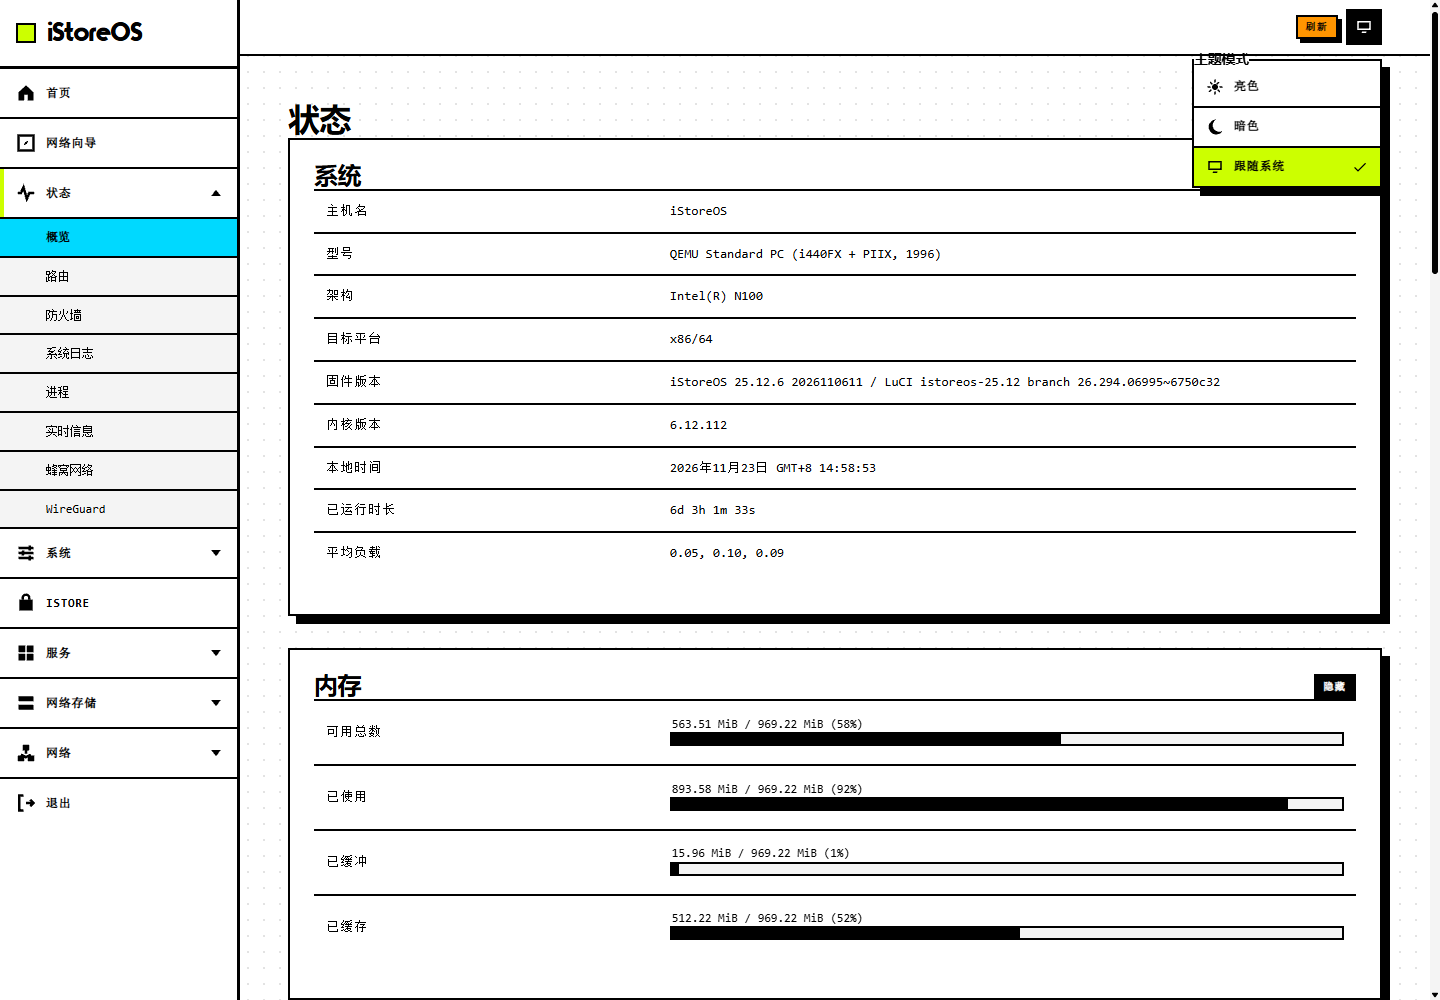
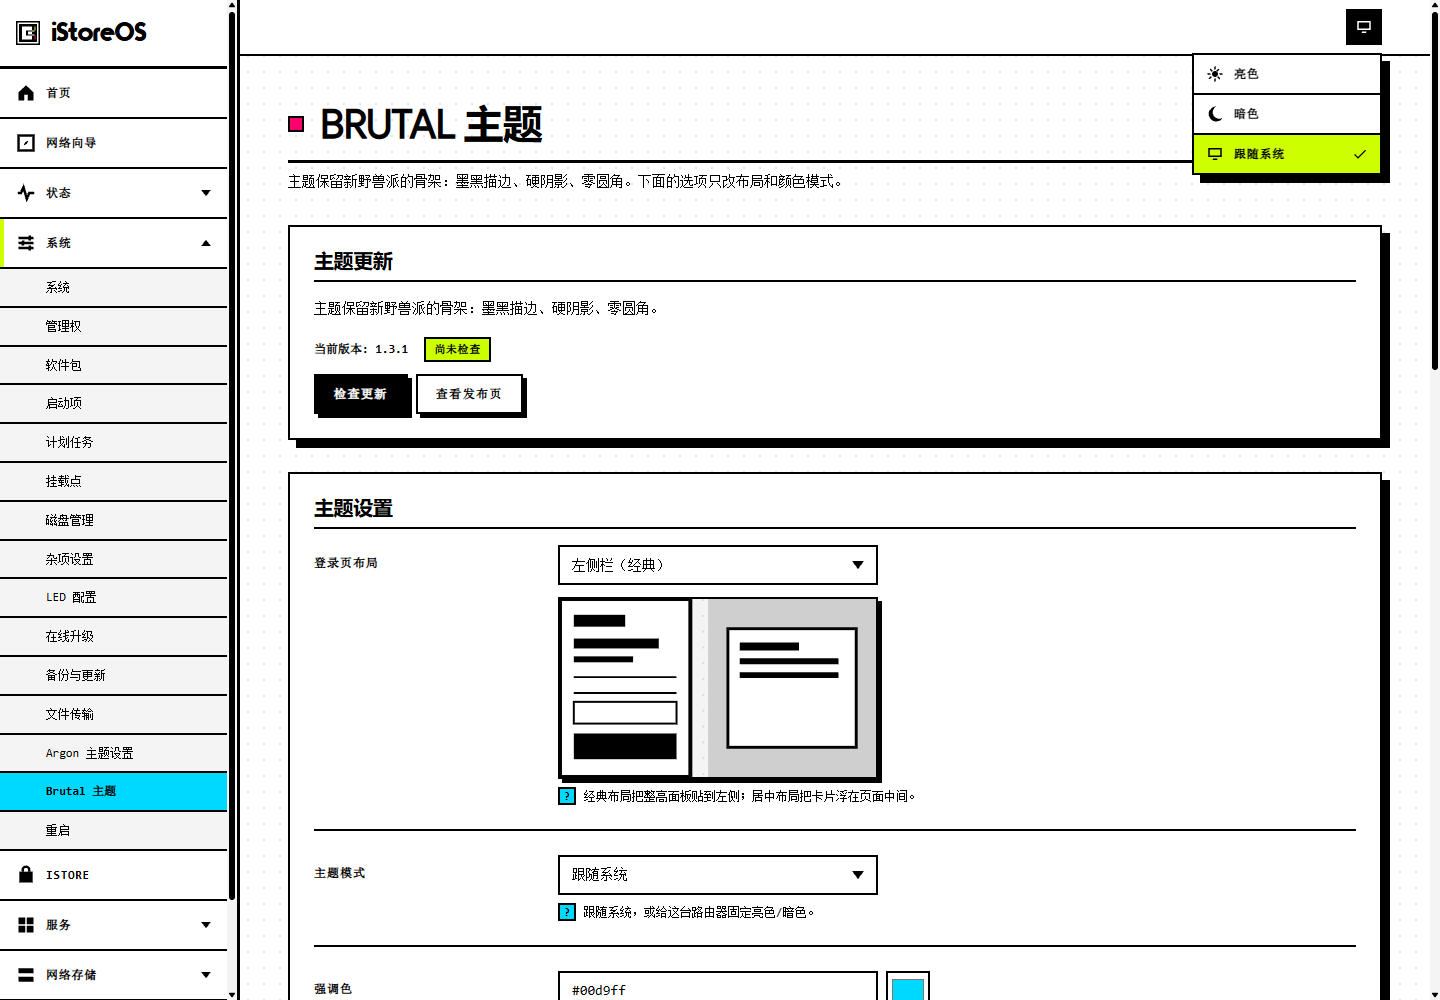
fix: seed both branding assets, remove the switch panel title
- theme: uci-defaults copies logo_48.png to branding/favicon.png and
  branding/logo.png when no upload exists, so both previews are set
- settings: fall back to the bundled logo when an asset is missing
- appearance panel: drop the visible 'Theme mode' legend; only the three
  options with icons and the checkmark remain

diff --git a/luci-app-brutal-config/htdocs/luci-static/resources/view/brutal/config.js b/luci-app-brutal-config/htdocs/luci-static/resources/view/brutal/config.js
@@ -346,15 +346,17 @@ return view.extend({
 		brand.render = () => {
 			const state = data[3] || {};
 			const preview = (kind, label) => {
-				if (!state[kind])
-					return E('div', { 'class': 'brutal-branding-empty' }, [ label + ': ' + _('not set') ]);
+				const custom = !!state[kind];
+				const fallback = (kind === 'favicon')
+					? '/luci-static/brutal/logo_48.png'
+					: '/luci-static/brutal/logo.svg';
+				const src = custom
+					? ('/luci-static/brutal/branding/' + kind + '.png?v=' + (state[kind + '_mtime'] || ''))
+					: fallback;
 
 				return E('figure', { 'class': 'brutal-branding-item' }, [
-					E('img', {
-						'src': '/luci-static/brutal/branding/' + kind + '.png?v=' + (state[kind + '_mtime'] || ''),
-						'alt': label
-					}),
-					E('figcaption', {}, label)
+					E('img', { 'src': src, 'alt': label }),
+					E('figcaption', {}, [ label + (custom ? '' : ' · ' + _('Default')) ])
 				]);
 			};
 			const button = (style, label, handler, disabled) => E('button', {

diff --git a/luci-theme-brutal/htdocs/luci-static/resources/brutal-appearance.js b/luci-theme-brutal/htdocs/luci-static/resources/brutal-appearance.js
@@ -102,7 +102,6 @@ return baseclass.extend({
 			'class': 'brutal-appearance-panel',
 			'hidden': true
 		}, [
-			E('legend', { 'class': 'visually-hidden' }, _('Theme mode')),
 			...Object.keys(LABELS).map((mode, index) => E('label', {
 				'class': 'brutal-appearance-option',
 				'data-mode': mode,

diff --git a/README.md b/README.md
@@ -71,20 +71,20 @@ luci-app-brutal-config/     配置应用：登录页壁纸/标题
 
 ```sh
 # 25.12 / apk（包未签名，需 --allow-untrusted）
-wget https://github.com/MinimaxFlora/luci-theme-brutal/releases/latest/download/luci-theme-brutal-1.3.1-r2.apk
-wget https://github.com/MinimaxFlora/luci-theme-brutal/releases/latest/download/luci-app-brutal-config-1.3.1-r2.apk
-wget https://github.com/MinimaxFlora/luci-theme-brutal/releases/latest/download/luci-i18n-brutal-config-zh-cn-1.3.1-r2.apk
-apk add --allow-untrusted ./luci-theme-brutal-1.3.1-r2.apk \
-  ./luci-app-brutal-config-1.3.1-r2.apk ./luci-i18n-brutal-config-zh-cn-1.3.1-r2.apk
+wget https://github.com/MinimaxFlora/luci-theme-brutal/releases/latest/download/luci-theme-brutal-1.3.1-r3.apk
+wget https://github.com/MinimaxFlora/luci-theme-brutal/releases/latest/download/luci-app-brutal-config-1.3.1-r3.apk
+wget https://github.com/MinimaxFlora/luci-theme-brutal/releases/latest/download/luci-i18n-brutal-config-zh-cn-1.3.1-r3.apk
+apk add --allow-untrusted ./luci-theme-brutal-1.3.1-r3.apk \
+  ./luci-app-brutal-config-1.3.1-r3.apk ./luci-i18n-brutal-config-zh-cn-1.3.1-r3.apk
 ```
 
 ```sh
 # 24.10 / opkg
-wget https://github.com/MinimaxFlora/luci-theme-brutal/releases/latest/download/luci-theme-brutal_1.3.1-r2_all.ipk
-wget https://github.com/MinimaxFlora/luci-theme-brutal/releases/latest/download/luci-app-brutal-config_1.3.1-r2_all.ipk
+wget https://github.com/MinimaxFlora/luci-theme-brutal/releases/latest/download/luci-theme-brutal_1.3.1-r3_all.ipk
+wget https://github.com/MinimaxFlora/luci-theme-brutal/releases/latest/download/luci-app-brutal-config_1.3.1-r3_all.ipk
 wget https://github.com/MinimaxFlora/luci-theme-brutal/releases/latest/download/luci-i18n-brutal-config-zh-cn_v1.3.1_all.ipk
-opkg install ./luci-theme-brutal_1.3.1-r2_all.ipk \
-  ./luci-app-brutal-config_1.3.1-r2_all.ipk ./luci-i18n-brutal-config-zh-cn_v1.3.1_all.ipk
+opkg install ./luci-theme-brutal_1.3.1-r3_all.ipk \
+  ./luci-app-brutal-config_1.3.1-r3_all.ipk ./luci-i18n-brutal-config-zh-cn_v1.3.1_all.ipk
 ```
 
 主题的安装脚本会注册 `luci.themes.Brutal`，并在**全新安装**时把 `luci.main.mediaurlbase` 指到 `/luci-static/brutal`；升级不会覆盖你当前选中的主题。装完如果页面没变，清一次缓存并强制刷新：

diff --git a/docs/COMPATIBILITY.md b/docs/COMPATIBILITY.md
@@ -83,7 +83,7 @@ case "$1" in *upgrade*) exit 0 ;; esac
 
 并且只在真正卸载时回退 `mediaurlbase`，否则每次升级都会把用户踢回 bootstrap。
 
-`luci.mk` 的版本推导在两条分支上行为一致：有 `.git` 时按提交时间生成 `<yy>.<年内第几天>.<秒>~<sha>`，没有 `.git` 时退回文件 mtime。本仓库在主题 Makefile 里钉死 `PKG_VERSION:=1.3.1` / `PKG_RELEASE:=2`，配置应用钉死 `1.3.1-r2`，避免不同架构的 CI job 生成不同版本号。
+`luci.mk` 的版本推导在两条分支上行为一致：有 `.git` 时按提交时间生成 `<yy>.<年内第几天>.<秒>~<sha>`，没有 `.git` 时退回文件 mtime。本仓库在主题 Makefile 里钉死 `PKG_VERSION:=1.3.1` / `PKG_RELEASE:=2`，配置应用钉死 `1.3.1-r3`，避免不同架构的 CI job 生成不同版本号。
 
 ## 25.12 的额外差异
 
